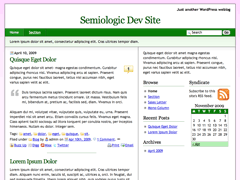
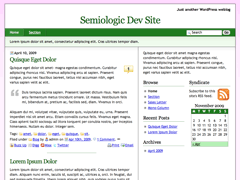
desaturate green skins
git-svn-id: file:///Users/michaelkoepke/svn/semiologic@3330 6c9c31c4-cb3d-4424-af3d-876279169c7e

Changed region(s): [[0.1167, 0.1389, 0.7875, 0.1944], [0.0, 0.1667, 0.0875, 0.2222]]

diff --git a/skins/kubrick-green/trunk/skin.css b/skins/kubrick-green/trunk/skin.css
@@ -250,12 +250,12 @@ html {
 
 /*
  * Scheme Colors
- * H120 S95 L45
+ * H120 S75 L45
  */
 
 #header,
 .widget_calendar thead {
-	background-color: #067d06; /* - */
+	background-color: #1f7a1f; /* - */
 	color: #fff;
 }
 
@@ -271,11 +271,11 @@ html {
 }
 
 .entry_header h1 {
-	color: #045404; /* L30 */
+	color: #185e18; /* L30 */
 }
 
 #tagline {
-	color: #91fa91; /* L90* */
+	color: #bbf0bb; /* L90* */
 }
 
 .entry_bottom,
@@ -284,7 +284,7 @@ html {
 }
 
 #header_img {
-	border-color: #033d03; /* B/2 */
+	border-color: #0f3d0f; /* B/2 */
 }
 
 .widget_calendar thead {

diff --git a/skins/boxed-green/trunk/skin.css b/skins/boxed-green/trunk/skin.css
@@ -343,13 +343,13 @@ html {
 
 /*
  * Scheme Colors
- * H120 S95 L45
+ * H120 S75 L45
  */
 
 #navbar,
 .widget_calendar thead,
 .widget_title h2 {
-	background-color: #067d06; /* - */
+	background-color: #1f7a1f; /* - */
 	color: #fff;
 }
 
@@ -367,7 +367,7 @@ html {
 #sitename,
 .entry_header h1,
 .archives_header h1 {
-	color: #045404; /* L30 */
+	color: #185e18; /* L30 */
 }
 
 #navbar a {
@@ -384,7 +384,7 @@ html {
 
 #navbar_bg,
 #go {
-	border-color: #033d03; /* B/2 */
+	border-color: #0f3d0f; /* B/2 */
 }
 
 .widget_calendar thead,

diff --git a/skins/classy-green/trunk/skin.css b/skins/classy-green/trunk/skin.css
@@ -339,12 +339,12 @@ html {
 
 /*
  * Scheme Colors
- * H120 S95 L45
+ * H120 S75 L45
  */
 
 #navbar,
 .widget_calendar thead {
-	background-color: #067d06; /* - */
+	background-color: #1f7a1f; /* - */
 	color: #fff;
 }
 
@@ -368,7 +368,7 @@ html {
 #sitename,
 .entry_header h1,
 .archives_header h1 {
-	color: #045404; /* L30 */
+	color: #185e18; /* L30 */
 }
 
 #navbar a {
@@ -389,7 +389,7 @@ html {
 
 #navbar_bg,
 #go {
-	border-color: #033d03; /* B/2 */
+	border-color: #0f3d0f; /* B/2 */
 }
 
 .widget_calendar thead {

diff --git a/skins/light-green/trunk/skin.css b/skins/light-green/trunk/skin.css
@@ -304,12 +304,12 @@ html,
 
 /*
  * Scheme Colors
- * H120 S95 L45
+ * H120 S75 L45
  */
 
 #navbar,
 .widget_calendar thead {
-	background-color: #067d06; /* - */
+	background-color: #1f7a1f; /* - */
 	color: #fff;
 }
 
@@ -327,7 +327,7 @@ html,
 #sitename,
 .entry_header h1,
 .archives_header h1 {
-	color: #045404; /* L30 */
+	color: #185e18; /* L30 */
 }
 
 #navbar a {
@@ -349,7 +349,7 @@ html,
 
 #navbar,
 #go {
-	border-color: #033d03; /* B/2 */
+	border-color: #0f3d0f; /* B/2 */
 }
 
 .widget_calendar thead {

diff --git a/skins/classic-green/trunk/skin.css b/skins/classic-green/trunk/skin.css
@@ -314,12 +314,12 @@ html {
 
 /*
  * Scheme Colors
- * H120 S95 L45
+ * H120 S75 L45
  */
 
 #navbar,
 .widget_calendar thead {
-	background-color: #067d06; /* - */
+	background-color: #1f7a1f; /* - */
 	color: #fff;
 }
 
@@ -346,7 +346,7 @@ html {
 #sitename,
 .entry_header h1,
 .archives_header h1 {
-	color: #045404; /* L30 */
+	color: #185e18; /* L30 */
 }
 
 #navbar a {
@@ -367,7 +367,7 @@ html {
 }
 
 #go {
-	border-color: #033d03; /* B/2 */
+	border-color: #0f3d0f; /* B/2 */
 }
 
 #wrapper,

diff --git a/skins/copywriter-green/trunk/skin.css b/skins/copywriter-green/trunk/skin.css
@@ -352,13 +352,13 @@ html,
 
 /*
  * Scheme Colors
- * H120 S95 L45
+ * H120 S75 L45
  */
 
 #navbar,
 #footer,
 .widget_calendar thead {
-	background-color: #067d06; /* - */
+	background-color: #1f7a1f; /* - */
 	color: #fff;
 }
 
@@ -403,7 +403,7 @@ html,
 #header_top_wrapper,
 #header_middle_wrapper,
 #footer_top_wrapper {
-	border-color: #033d03; /* B/2 */
+	border-color: #0f3d0f; /* B/2 */
 }
 
 #footer_wrapper,

diff --git a/skins/shades-green/trunk/skin.css b/skins/shades-green/trunk/skin.css
@@ -254,7 +254,7 @@ a:hover,
 
 /*
  * Scheme Colors
- * H120 S95 L45
+ * H120 S75 L45
  */
 
 #wrapper,
